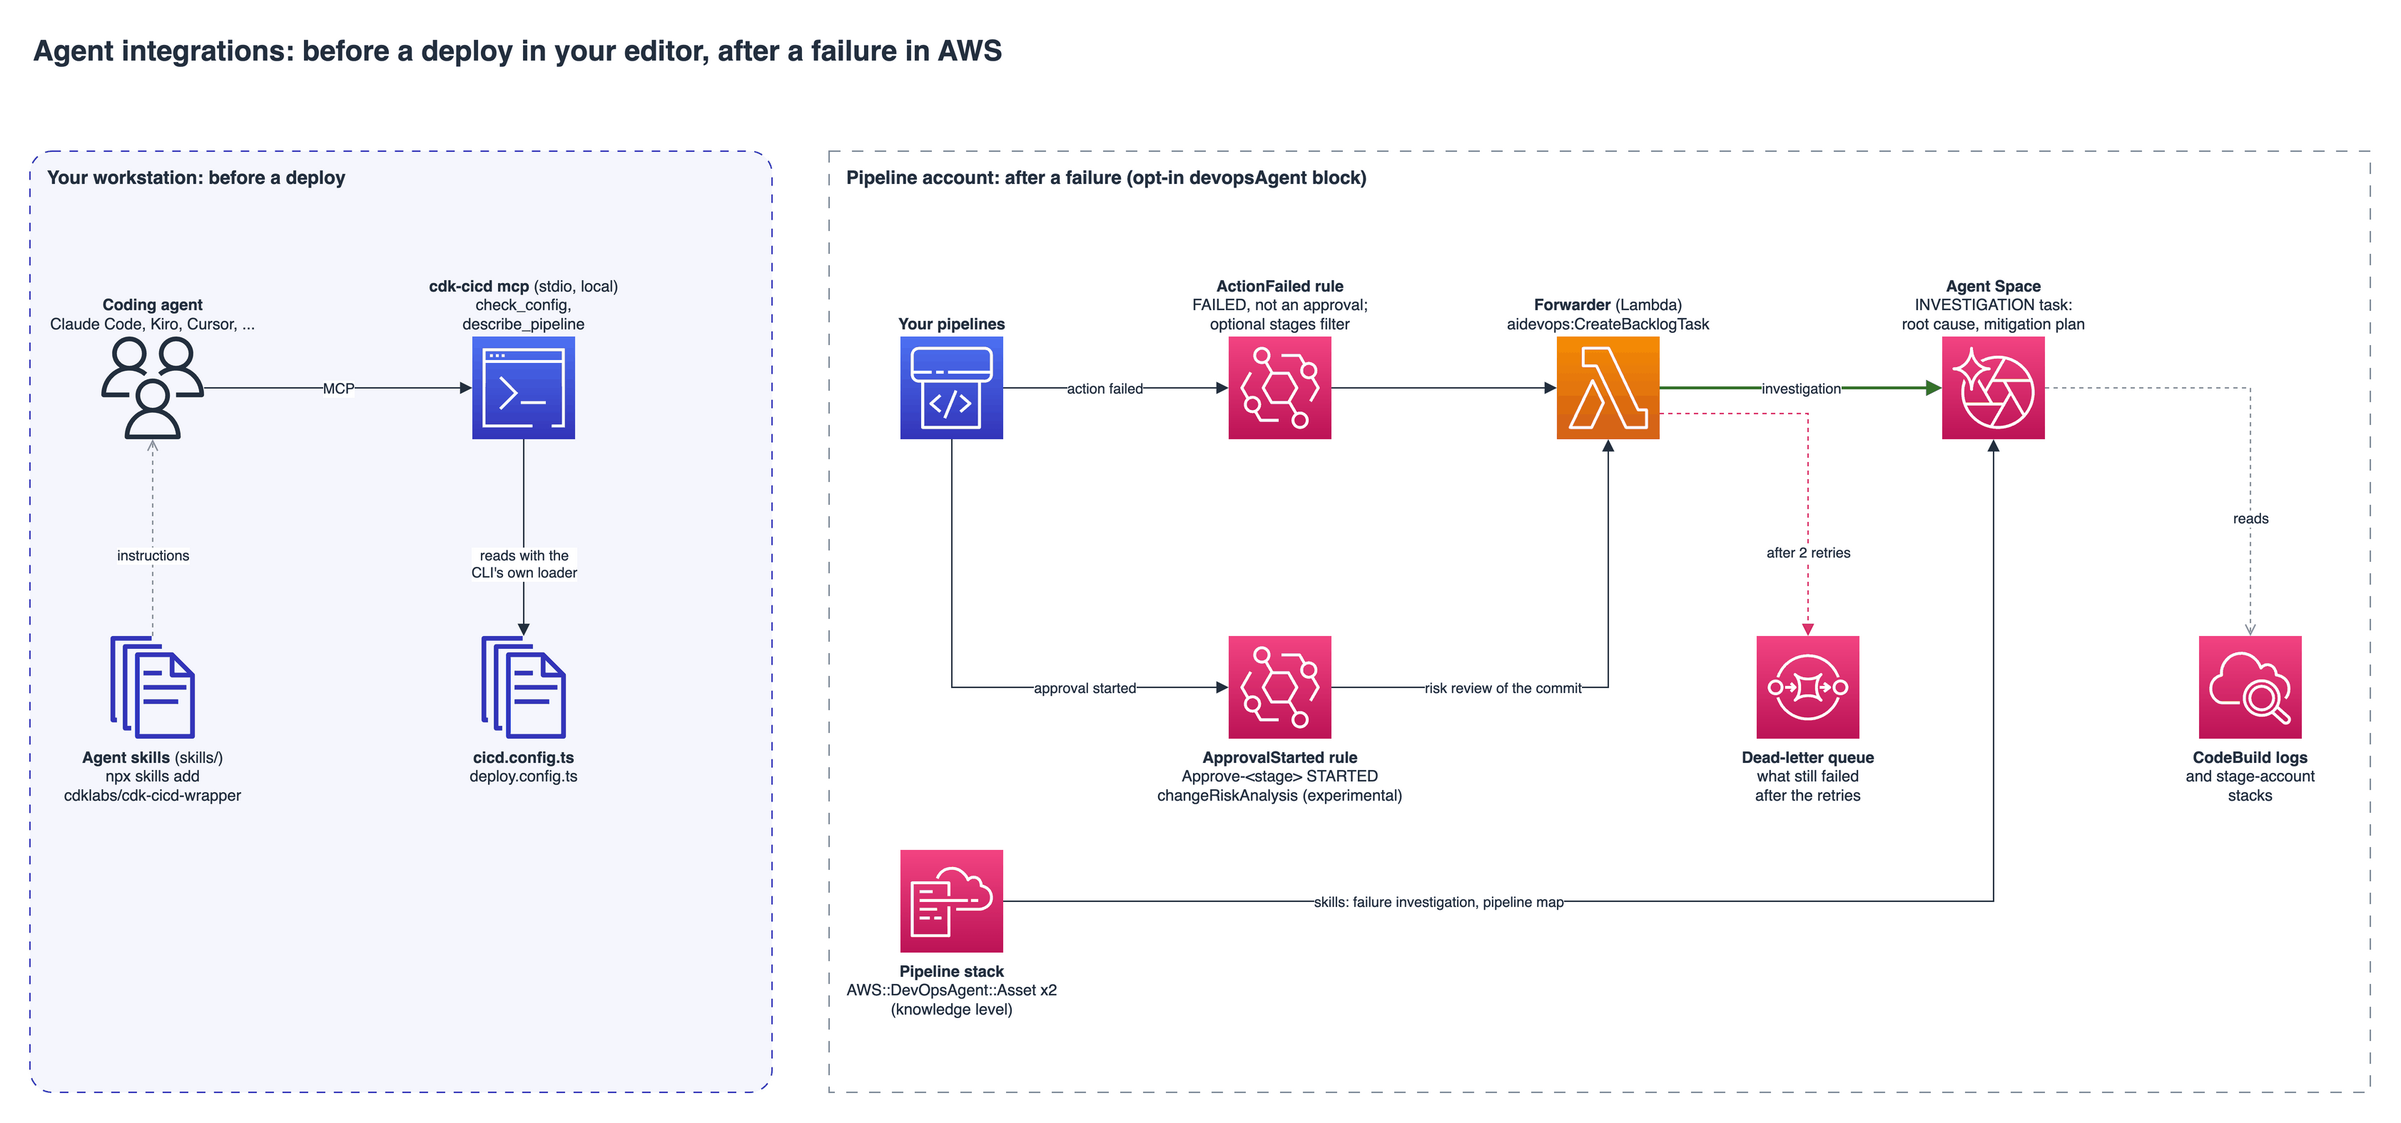
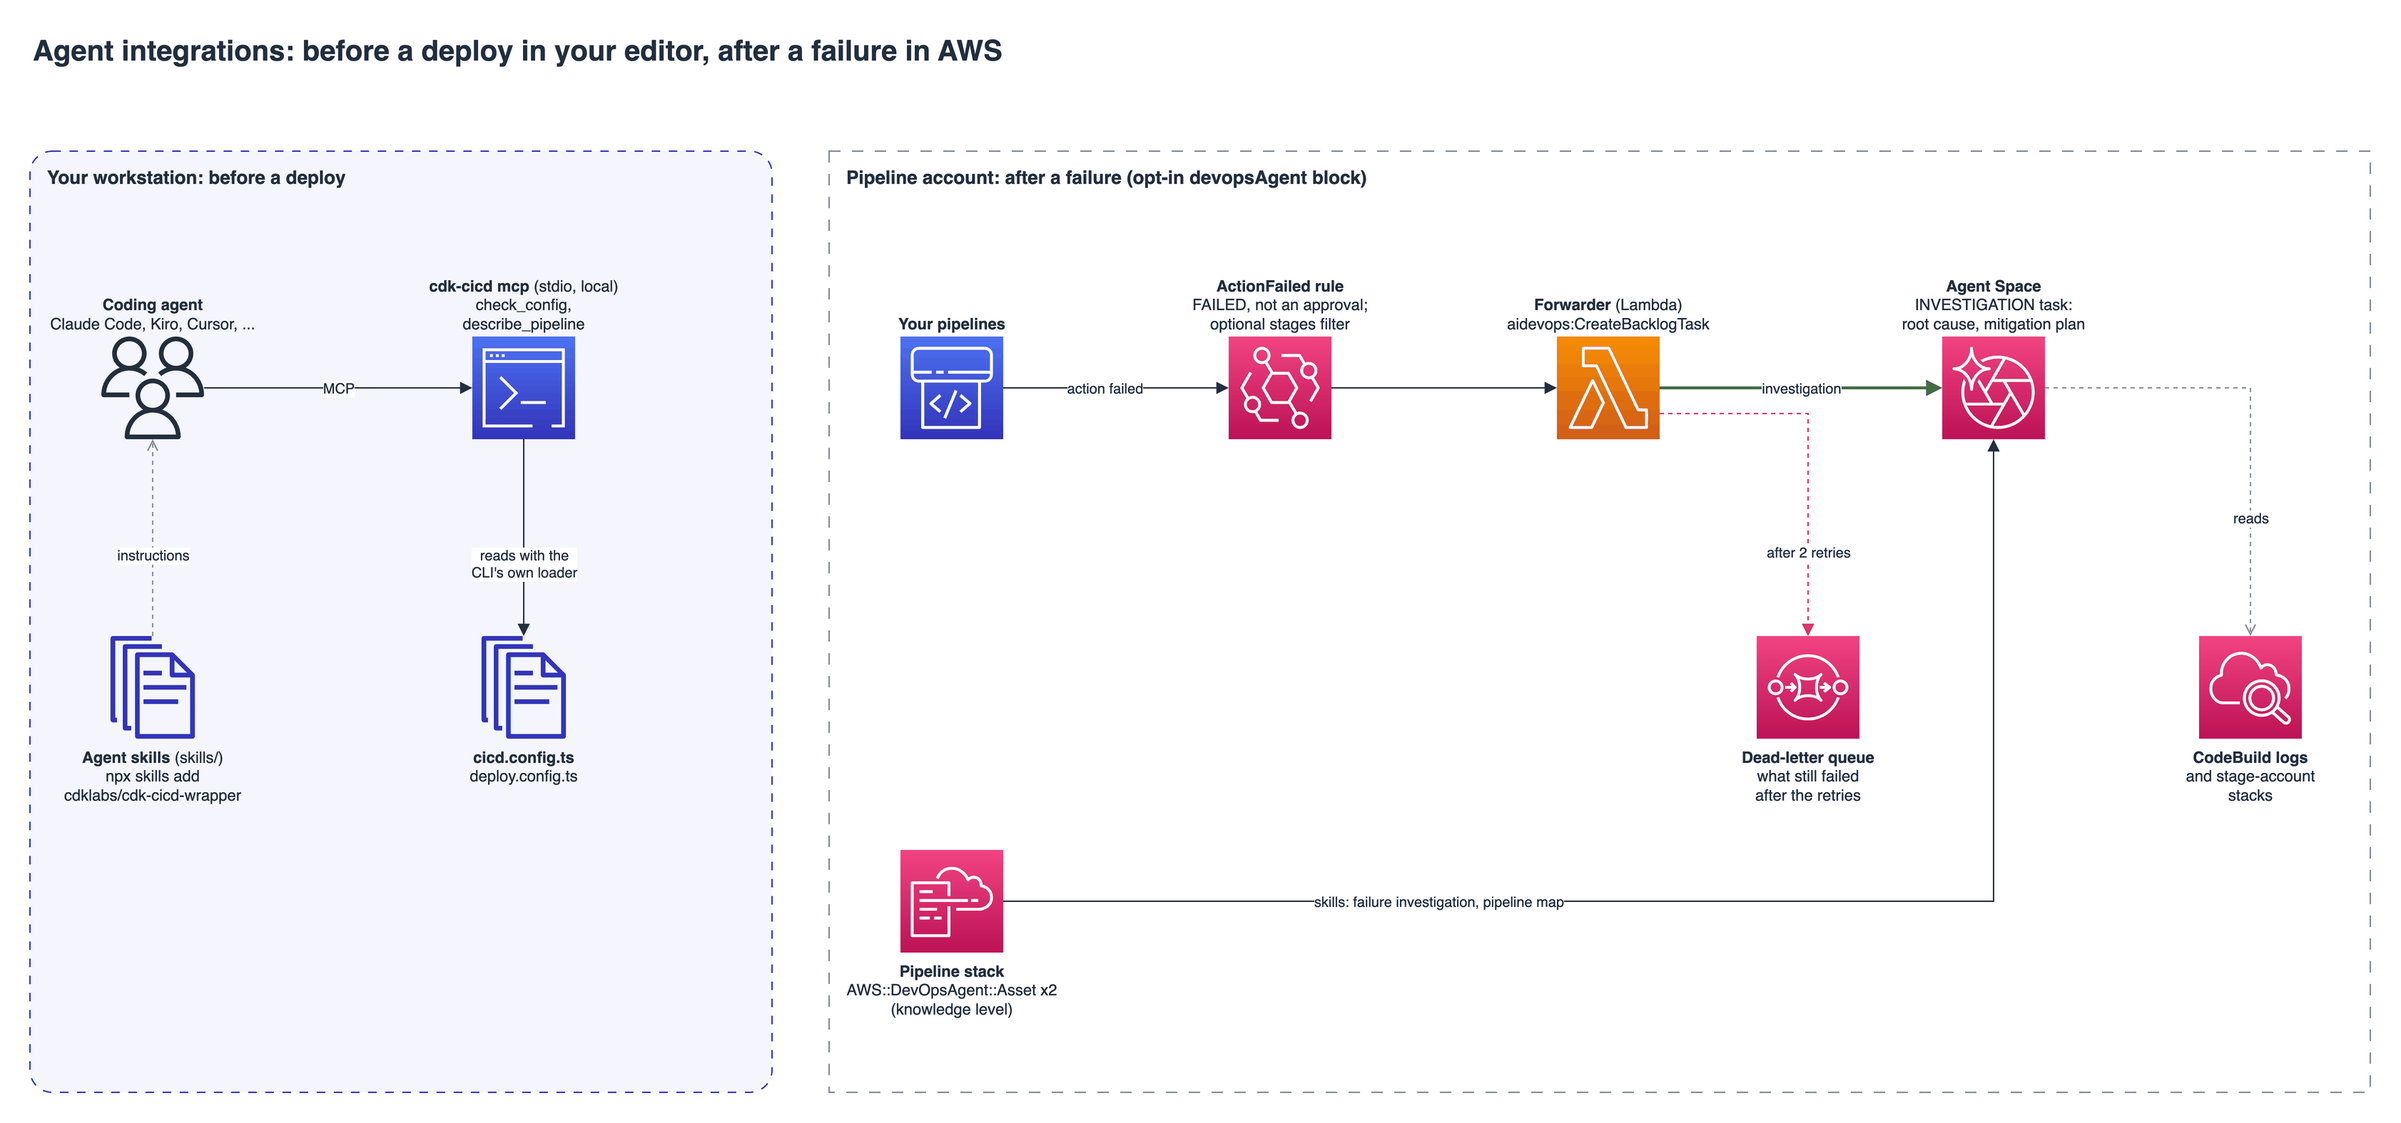
docs(devops-agent): describe only the levels that ship
The guide, configuration reference, overview, README, CHANGELOG, the DevOps
Agent skill and the agent-integrations diagram page now cover
investigations and knowledge only.

Changed region(s): [[0.4681, 0.56, 0.5929, 0.7156], [0.5929, 0.5911, 0.6553, 0.6222], [0.4368, 0.5911, 0.4681, 0.6222]]

diff --git a/docs/content/developer_guides/devops_agent.md b/docs/content/developer_guides/devops_agent.md
@@ -8,11 +8,10 @@ connects the two.
 It is **off by default**, and inside it every capability is a separate **level** that is on only when its
 block is present. Pick the ones you need:
 
-| Level                | What you get                                                                                   | Status       |
-| -------------------- | ---------------------------------------------------------------------------------------------- | ------------ |
-| `investigations`     | Every failed pipeline action opens a DevOps Agent investigation (root cause, mitigation plan). | stable       |
-| `knowledge`          | The pipeline publishes skills into the Agent Space, so investigations start in the right log or stack. | stable       |
-| `changeRiskAnalysis` | When a gated stage waits for approval, DevOps Agent reviews the commit being promoted for release risks. | experimental |
+| Level            | What you get                                                                                            |
+| ---------------- | ------------------------------------------------------------------------------------------------------- |
+| `investigations` | Every failed pipeline action opens a DevOps Agent investigation (root cause, mitigation plan).          |
+| `knowledge`      | The pipeline publishes skills into the Agent Space, so investigations start in the right log or stack. |
 
 ```typescript
 // cicd.config.ts
@@ -25,9 +24,8 @@ export default defineCICD({
   stages: ['dev', { name: 'prod', manualApproval: true }],
   devopsAgent: {
     agentSpaceId: 'a1b2c3d4-EXAMPLE',
-    investigations: {},                                   // every failed action
-    knowledge: {},                                        // both skills
-    changeRiskAnalysis: { beforeApprovalOf: ['prod'] },   // experimental
+    investigations: {}, // every failed action
+    knowledge: {},      // both skills
   },
 });
 ```
@@ -39,7 +37,7 @@ This is not the [MCP server](../mcp/index.md). `cdk-cicd mcp` helps a coding age
 `cicd.config.ts` before a deploy. `devopsAgent` works in AWS, after a pipeline action has failed. The diagram
 shows both:
 
-![Agent integrations: cdk-cicd mcp and the skills on your workstation; the devopsAgent rules, forwarder, dead-letter queue and skill assets in the pipeline account](../assets/diagrams/autopilot-agent-integrations.png)
+![Agent integrations: cdk-cicd mcp and the skills on your workstation; the devopsAgent rule, forwarder, dead-letter queue and skill assets in the pipeline account](../assets/diagrams/autopilot-agent-integrations.png)
 
 ## What a level deploys
 
@@ -61,20 +59,9 @@ Everything goes into the pipeline stack, in the pipeline's account and Region.
 The forwarder creates it through the `CreateBacklogTask` API, and the web app lists it as triggered by
 "User".*
 
-**`changeRiskAnalysis`**
-
-- An EventBridge rule on the manual approval actions of the stages you name, in state `STARTED`.
-- The same Lambda reads the commit the execution promotes (`codepipeline:GetPipelineExecution`) and requests a
-  [Code Change Risk Analysis](https://docs.aws.amazon.com/devopsagent/latest/userguide/working-with-devops-agent-code-change-risk-analysis-index.html)
-  of it (`CODE_CHANGE_RISK_ANALYSIS`). The review is a task in the Agent Space, with the commit and the stage in
-  its title. Its report gives a recommended action (BLOCK, Deploy with Caution, or Standard Deployment), and the
-  approver reads it there (operator web app) before approving. It informs the approval and does not hold it. The
-  level is experimental: see Limits.
-
-**Both of the above share** one function and one SQS dead-letter queue (SQS-managed encryption, TLS only,
-14 days retention). The function has no inbound endpoint and signs its calls with its own IAM role. That role
-may call `aidevops:CreateBacklogTask` on your one Agent Space and, with `changeRiskAnalysis`,
-`codepipeline:GetPipelineExecution` on these pipelines. Beyond that it can only write its own logs (the Lambda
+The function comes with one SQS dead-letter queue (SQS-managed encryption, TLS only, 14 days retention). It
+has no inbound endpoint and signs its calls with its own IAM role. That role may call
+`aidevops:CreateBacklogTask` on your one Agent Space. Beyond that it can only write its own logs (the Lambda
 basic execution policy) and send to its dead-letter queue. There is no webhook and no shared secret.
 EventBridge retries delivery, and the function retries a failing call twice more within six hours. What
 still fails lands in the dead-letter queue, so a missed task is visible rather than lost. Each request
@@ -110,7 +97,6 @@ Agent Space starts with.*
 | `region`              | `string`                      | the pipeline's Region | The Agent Space's Region. `knowledge` needs it to be the pipeline's. |
 | `investigations`      | `DevOpsAgentInvestigationsConfig` | off               | Open an investigation per failed action.                 |
 | `knowledge`           | `DevOpsAgentKnowledgeConfig`  | off                   | Publish the skills.                                      |
-| `changeRiskAnalysis`  | `DevOpsAgentChangeRiskAnalysisConfig` | off           | Review the commit before a gated stage's approval. Experimental. |
 
 `investigations`:
 
@@ -127,23 +113,14 @@ Agent Space starts with.*
 | `investigationSkill` | `boolean` | `true`  | Publish the generic investigation skill.     |
 | `pipelineMap`        | `boolean` | `true`  | Publish this pipeline's generated map.       |
 
-`changeRiskAnalysis` (experimental):
-
-| Field              | Type                  | Default        | Purpose                                                       |
-| ------------------ | --------------------- | -------------- | ------------------------------------------------------------- |
-| `beforeApprovalOf` | `string[]`            | — (required)   | Stages with a manual approval whose approval starts a review. |
-| `priority`         | `DevOpsAgentPriority` | `MEDIUM`       | Priority of each review.                                      |
-
 The levels are checked when the config loads, so a typo fails there instead of silently doing nothing. That
-covers an unknown stage, an empty stage list, a filter Repo 1's image build cannot apply, a review before a
-stage that has no approval, and a priority DevOps Agent does not know. Only `knowledge`'s Region check waits
-until synth, when the pipeline's Region is known; for an environment-agnostic pipeline, CloudFormation makes
-it at deploy time.
+covers an unknown stage, an empty stage list, a filter Repo 1's image build cannot apply, and a priority
+DevOps Agent does not know. Only `knowledge`'s Region check waits until synth, when the pipeline's Region is
+known; for an environment-agnostic pipeline, CloudFormation makes it at deploy time.
 
 In container mode the same block goes into Repo 2's `deploy.config.ts`, where it covers the CD pipeline and every
 target's auto-deploy pipeline (`stages` are target names). In Repo 1's `cicd.config.ts` it covers the image
-build. `changeRiskAnalysis` is not available in container mode: Repo 1 only builds images, and Repo 2 promotes
-an image, not a commit.
+build.
 
 To deploy a change, push it: the `codepipeline` and `cdk-pipelines` engines run the whole pipeline, and their
 self-update step applies it. A container-mode pipeline has no self-update stage, so run
@@ -160,11 +137,9 @@ self-update step applies it. A container-mode pipeline has no self-update stage,
    state live, and each stage account the pipeline deploys to, where the CloudFormation stacks live. See
    [Connecting multiple AWS accounts](https://docs.aws.amazon.com/devopsagent/latest/userguide/configuring-integrations-and-knowledge-connecting-multiple-aws-accounts.html).
    Without these associations an investigation runs but cannot read the evidence.
-3. **For `changeRiskAnalysis`, connect the repository** (GitHub or GitLab) to the Agent Space. Code Change
-   Risk Analysis reads the code through that integration, and indexing a new repository takes one to two hours.
 
-The wrapper does not create the Agent Space, the account associations or the repository connection. All three
-are long-lived and shared between pipelines, and who may use the operator web app is a decision for people.
+The wrapper does not create the Agent Space or the account associations. Both are long-lived and shared
+between pipelines, and who may use the operator web app is a decision for people.
 
 ## What an investigation finds
 
@@ -203,9 +178,8 @@ repository.
 
 DevOps Agent bills by the agent-second ([pricing](https://aws.amazon.com/devops-agent/pricing/)). With
 `investigations` on, every matching failed action opens one investigation, including failures you would have
-recognised at a glance: use `stages` to limit it. The test above took about four minutes of agent time.
-`changeRiskAnalysis` opens one review per approval of the stages you name. The Lambda, the rules and the skill
-assets cost next to nothing.
+recognised at a glance: use `stages` to limit it. The investigation above took about four minutes of agent
+time. The Lambda, the rule and the skill assets cost next to nothing.
 
 ## Limits
 
@@ -216,7 +190,3 @@ assets cost next to nothing.
 - **The Agent Space must be in the pipeline account**, and for `knowledge` also in the pipeline stack's Region.
 - **Failed actions only.** A stopped or superseded execution is not a failure and opens nothing, and neither
   does a rejected or timed-out manual approval.
-- **`changeRiskAnalysis` is experimental.** DevOps Agent's Code Change Risk Analysis is in preview. Requesting
-  it from a pipeline uses the documented `CreateBacklogTask` API with task type `CODE_CHANGE_RISK_ANALYSIS`.
-  AWS documents chat and pull-request reviews as its entry points. The review needs the repository connected to
-  the Agent Space; without one, the task fails at once.

diff --git a/skills/cdk-cicd-devops-agent/SKILL.md b/skills/cdk-cicd-devops-agent/SKILL.md
@@ -7,9 +7,8 @@ description: Connect a cdk-cicd-wrapper pipeline (a project with cicd.config.ts 
 
 `devopsAgent` in `cicd.config.ts` (or Repo 2's `deploy.config.ts`) connects the pipeline to AWS DevOps Agent.
 It is off by default, and each capability is its own level, on only when its block is present:
-`investigations` (one investigation per failed action, approvals excluded), `knowledge` (skills about this
-pipeline published into the Agent Space) and the experimental `changeRiskAnalysis` (a review of the commit
-before a gated stage's approval). This skill covers turning levels on and reading what comes back. Background: the
+`investigations` (one investigation per failed action, approvals excluded) and `knowledge` (skills about this
+pipeline published into the Agent Space). This skill covers turning levels on and reading what comes back. Background: the
 [DevOps Agent guide](https://cdklabs.github.io/cdk-cicd-wrapper/developer_guides/devops_agent.html).
 
 ## Ground rules
@@ -55,15 +54,12 @@ before a gated stage's approval). This skill covers turning levels on and readin
      `priority` sets the task priority.
    - `knowledge: {}` publishes the failure-investigation skill and a generated map of this pipeline into the
      Agent Space. It needs the Agent Space in the pipeline's own Region.
-   - `changeRiskAnalysis: { beforeApprovalOf: ['prod'] }` is experimental. It needs a GitHub or
-     CodeStar-connection source with the repository connected to the Agent Space, and a stage with a manual
-     approval.
 
    Add `region` only when the Agent Space is in another Region than the pipeline. For container mode, put
-   the block in `deploy.config.ts` too: Repo 2 deploys, Repo 1 only builds images, and neither supports
-   `changeRiskAnalysis`. With `knowledge` in both repos, set `investigationSkill: false` in one of them.
+   the block in `deploy.config.ts` too: Repo 2 deploys and Repo 1 only builds images. With `knowledge` in
+   both repos, set `investigationSkill: false` in one of them.
 5. **Check it.** `check_config` must show the `devopsAgent` block with the chosen levels, and
-   `describe_pipeline` must show `devopsAgentForwarder` when `investigations` or `changeRiskAnalysis` is on, and
+   `describe_pipeline` must show `devopsAgentForwarder` when `investigations` is on, and
    `devopsAgentSkills` when `knowledge` is.
    Without MCP, `npx --no cdk-cicd synth-ci` must succeed: every level is validated there.
 6. **Deploy, with the user's yes.** For the `codepipeline` and `cdk-pipelines` engines, pushing the change

diff --git a/README.md b/README.md
@@ -179,8 +179,8 @@ Two separate integrations, for two different moments:
 | ----------- | -------------------------------------------------------------------- | ----------------------------------------------------------------------------------------- |
 | When        | Before a deploy, while you or a coding agent change the config       | After a pipeline action fails                                                              |
 | Where       | Your workstation: an MCP server over stdio, started by your MCP client | Your pipeline account: an EventBridge rule and a Lambda that call AWS DevOps Agent       |
-| What it does | `check_config` validates and summarizes `cicd.config.ts` / `deploy.config.ts`; `describe_pipeline` lists the stages and actions the config renders | Opens a DevOps Agent investigation (root cause, mitigation plan) for each failed action, publishes skills into the Agent Space, and (experimental) reviews a commit before a gated stage |
-| Turn it on  | Register the command `npx --no cdk-cicd mcp` in your MCP client, in the project directory | Add a `devopsAgent` block and pick its levels: `investigations`, `knowledge`, `changeRiskAnalysis` |
+| What it does | `check_config` validates and summarizes `cicd.config.ts` / `deploy.config.ts`; `describe_pipeline` lists the stages and actions the config renders | Opens a DevOps Agent investigation (root cause, mitigation plan) for each failed action, and publishes skills into the Agent Space |
+| Turn it on  | Register the command `npx --no cdk-cicd mcp` in your MCP client, in the project directory | Add a `devopsAgent` block and pick its levels: `investigations`, `knowledge` |
 | Cost        | None                                                                 | DevOps Agent bills by the agent-second                                                     |
 
 `cdk-cicd mcp` replaces the Python MCP debugger this repository used to ship, which read the `0.x` config. See

diff --git a/docs/content/developer_guides/configuration.md b/docs/content/developer_guides/configuration.md
@@ -408,11 +408,10 @@ separately with `defineDeployment` in a `deploy.config.ts`. See the
 
 `devopsAgent` connects the pipeline to [AWS DevOps Agent](https://docs.aws.amazon.com/devopsagent/latest/userguide/about-aws-devops-agent.html).
 It is off by default, and each capability is its own level, on only when its block is present:
-`investigations` (an investigation per failed action, optionally only for some `stages`), `knowledge` (skills
-published into the Agent Space) and the experimental `changeRiskAnalysis` (a review of the commit before a gated
-stage's approval). A block with no level is rejected. You create the Agent Space (in the pipeline account) and
-associate the accounts it may investigate. `defineDeployment` (Repo 2) takes the same field. Not available with
-the GitHub Actions engine. See the [DevOps Agent guide](./devops_agent.md) for every option.
+`investigations` (an investigation per failed action, optionally only for some `stages`) and `knowledge`
+(skills published into the Agent Space). A block with no level is rejected. You create the Agent Space (in the
+pipeline account) and associate the accounts it may investigate. `defineDeployment` (Repo 2) takes the same
+field. Not available with the GitHub Actions engine. See the [DevOps Agent guide](./devops_agent.md) for every option.
 
 ## Pipeline role names
 

diff --git a/CHANGELOG.md b/CHANGELOG.md
@@ -11,8 +11,7 @@ The format is based on [Keep a Changelog](https://keepachangelog.com/en/1.1.0/).
 - `devopsAgent` in `defineCICD` and `defineDeployment`: connect the pipeline to AWS DevOps Agent, off by
   default and configurable per level. `investigations` opens an investigation per failed action (filter by
   `stages`, set `priority`). `knowledge` publishes the failure-investigation skill and a generated pipeline map
-  into the Agent Space. `changeRiskAnalysis` (experimental) requests a Code Change Risk Analysis of the commit
-  before a gated stage's approval. See the DevOps Agent guide.
+  into the Agent Space. See the DevOps Agent guide.
 - `cdk-cicd mcp`: an MCP server (stdio) in the CLI with `check_config` and `describe_pipeline`, which read
   `cicd.config.ts`/`deploy.config.ts` through the same loader and validation as the CLI.
 

diff --git a/docs/content/overview/index.md b/docs/content/overview/index.md
@@ -107,8 +107,7 @@ Two separate tools, for two different moments:
   It replaces the Python MCP debugger this repository used to ship, which read the `0.x` config.
 - **After a failure, in AWS**: the opt-in `devopsAgent` block connects the pipeline to AWS DevOps Agent. The
   `investigations` level opens a DevOps Agent investigation for each failed action. The `knowledge` level
-  publishes skills into the Agent Space. The experimental `changeRiskAnalysis` level reviews the commit
-  before a gated stage. See [AWS DevOps Agent](../developer_guides/devops_agent.md).
+  publishes skills into the Agent Space. See [AWS DevOps Agent](../developer_guides/devops_agent.md).
 
 The [agent skills](../skills/index.md) work with both.
 
